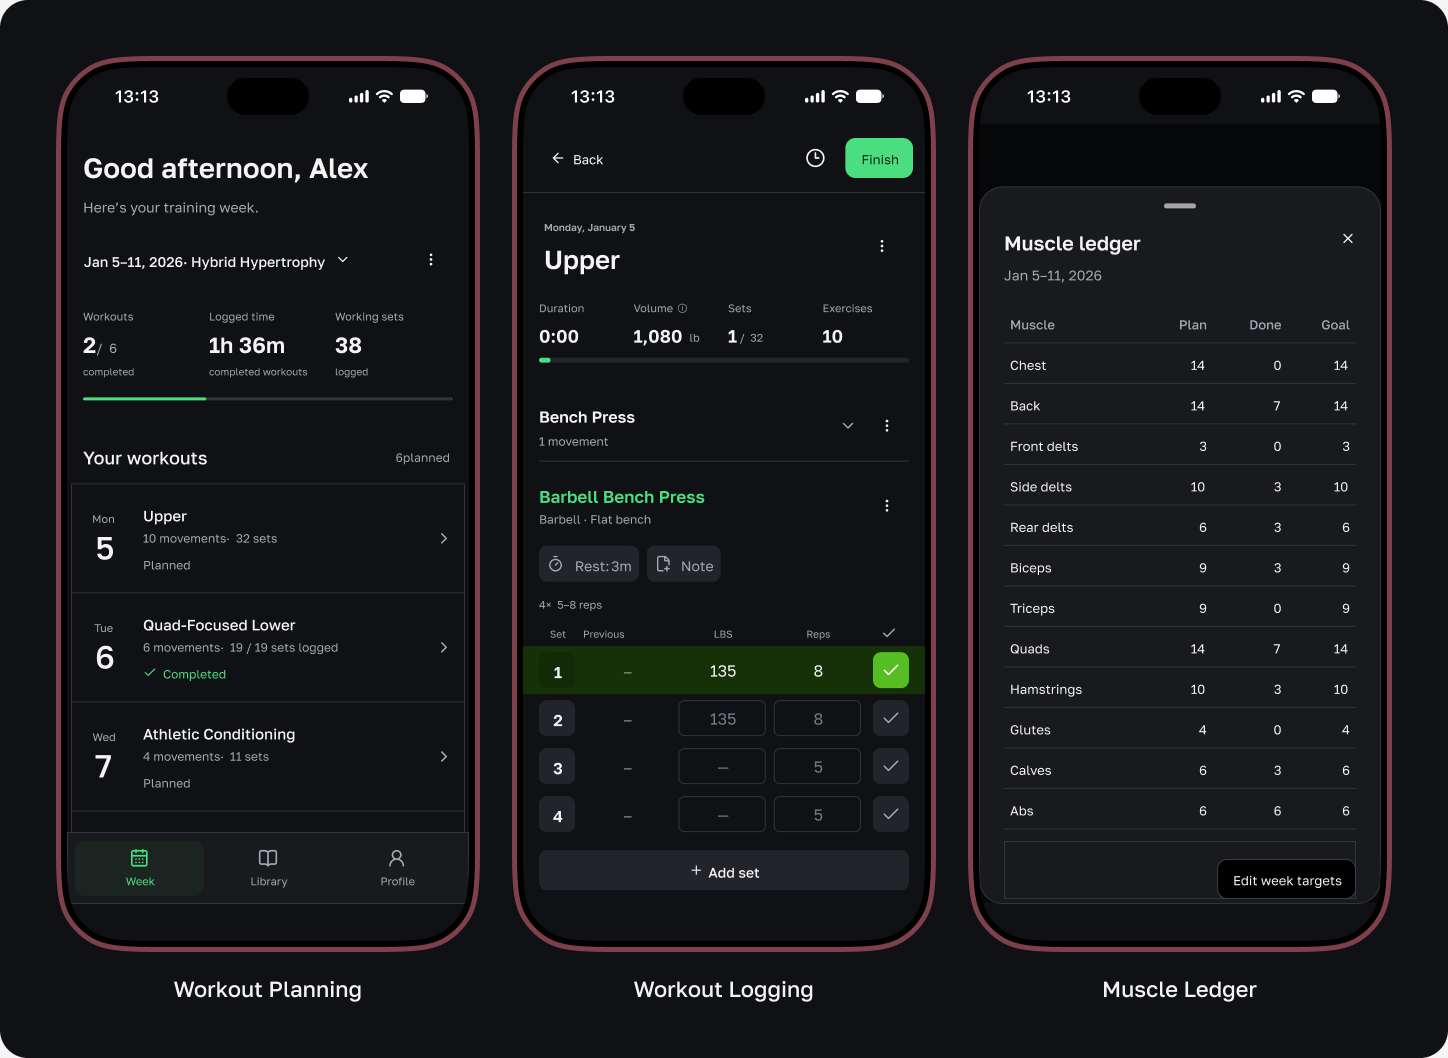
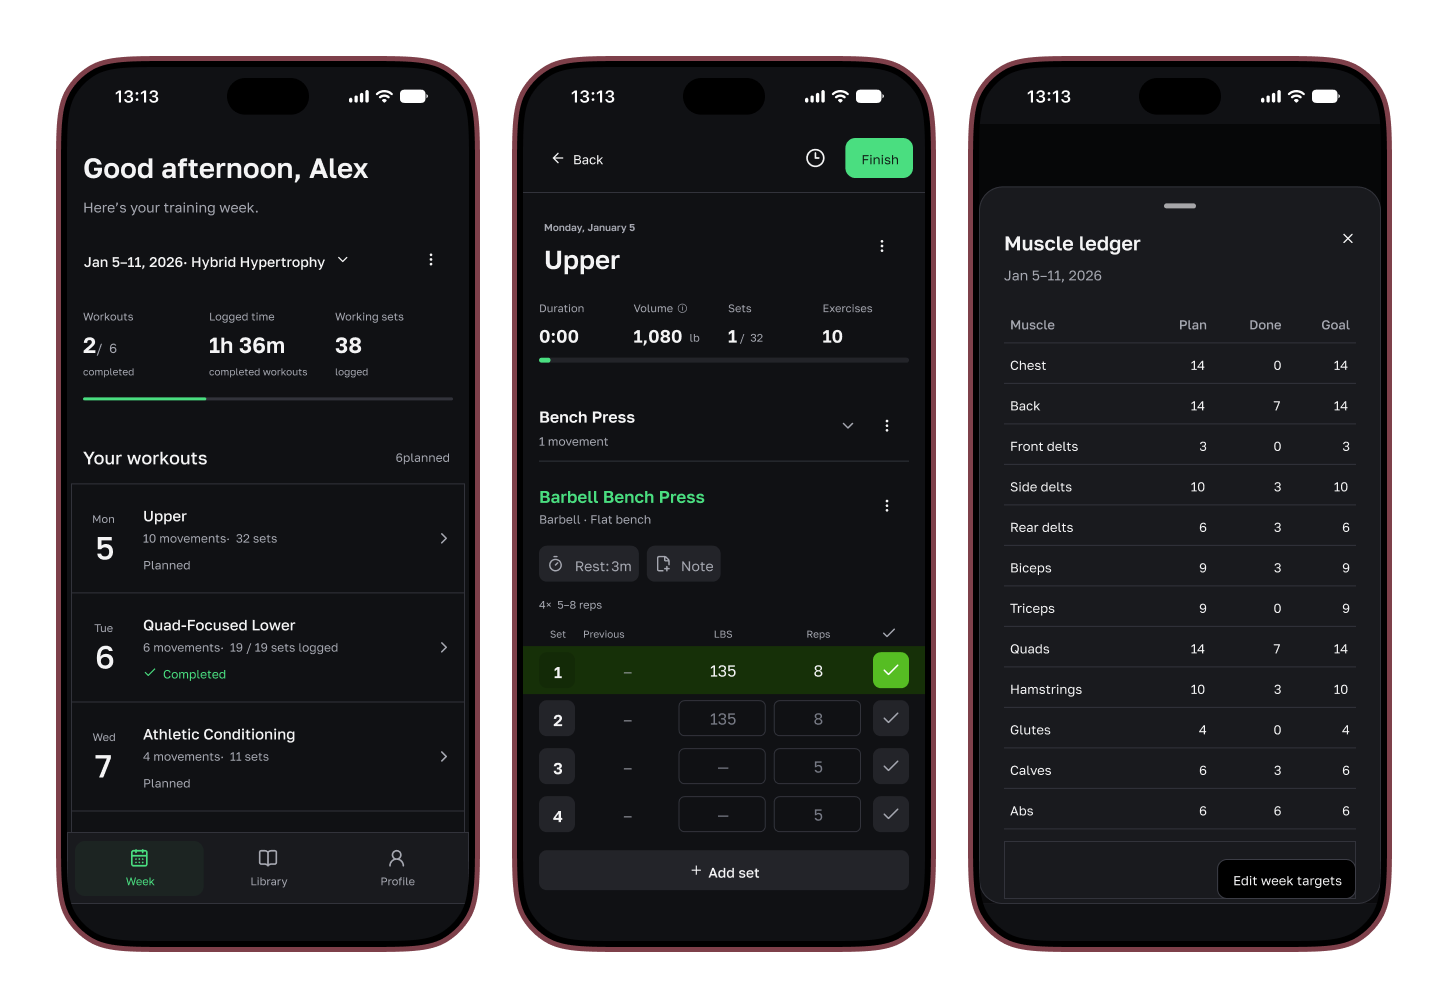
fix: clarify README visuals and configure notification tests in CI

diff --git a/server/timer-alerts.integration.test.ts b/server/timer-alerts.integration.test.ts
@@ -43,6 +43,11 @@ afterAll(async () => {
     )
 })
 beforeEach(() => {
+  // Delivery is mocked in this suite. Keep configuration independent of a
+  // developer's optional local push credentials.
+  vi.stubEnv("VAPID_PUBLIC_KEY", "test")
+  vi.stubEnv("VAPID_PRIVATE_KEY", "test")
+  vi.stubEnv("VAPID_SUBJECT", "mailto:test@example.invalid")
   vi.mocked(sendPush).mockClear()
 })
 describe.skipIf(!enabled)("rest alerts on PostgreSQL", () => {

diff --git a/docs/technical-design.md b/docs/technical-design.md
@@ -2,14 +2,27 @@
 
 ## Architecture
 
-```text
-React Web Client         Future Mobile Client / Agent
-        │                              │
-        └──────── Versioned HTTP API ──┘
-                         │
-                Domain And Access Rules
-                         │
-               PostgreSQL + Drizzle
+```mermaid
+flowchart TB
+    web["Web App<br/>React + Next.js"]
+    tools["Your Agents and Scripts"]
+    mobile["Future Mobile Client"]
+    api["Versioned HTTP API<br/>/api/v1"]
+    domain["Domain and Access Rules<br/>server/"]
+    db[("PostgreSQL<br/>Drizzle ORM")]
+
+    web --> api
+    tools --> api
+    mobile -.-> api
+    api --> domain
+    domain --> db
+
+    classDef client fill:#eaf7ee,stroke:#36844a,color:#163b20
+    classDef service fill:#edf3ff,stroke:#5275ad,color:#1c355c
+    classDef storage fill:#f4effa,stroke:#8063a0,color:#40275c
+    class web,tools,mobile client
+    class api,domain service
+    class db storage
 ```
 
 The first deployment uses Next.js for the web shell and route handlers. Domain modules live under `server/`, independently of React. The client consumes the generated API contract through `lib/api-client.ts`. Additional clients can use the same HTTP API without importing UI code.

diff --git a/docs/images/README.md b/docs/images/README.md
@@ -2,6 +2,6 @@
 
 These images show the current Training Log interface with synthetic workout data. The editable compositions are in [Figma](https://www.figma.com/design/kN2PWdpIGwS7ObCjENH3Ek?node-id=3906-374).
 
-Device frames are adapted from the [iPhone 18 Pro Flat Mockups Community template](https://www.figma.com/community/file/1155100064547881598/iphone-18-pro-flat-mockups). The original template remains in the Figma file. App interface layers and captions are editable. The screen content uses Golos Text, matching the web client.
+Device frames are adapted from the [iPhone 18 Pro Flat Mockups Community template](https://www.figma.com/community/file/1155100064547881598/iphone-18-pro-flat-mockups). The original template remains in the Figma file. App interface layers are editable. Exports use transparent backgrounds, with feature names supplied in the README text. The screen content uses Golos Text, matching the web client.
 
 The hero shows workout planning, logging, and the muscle ledger. Individual exports add a larger view of each screen and the rest timer. All examples are illustrative, with no personal training records or authentication details.

diff --git a/README.md b/README.md
@@ -32,9 +32,6 @@ Workout summaries also show duration, completed sets, and recorded weight volume
 
 Keep the workout clock and rest countdown close to your set log. Choose presets or a custom duration, enable automatic rest for individual movements, and use countdown sounds or optional device notifications. Notification delivery requires connectivity and supported device settings.
 
-<details>
-<summary>Explore the App</summary>
-
 | Workout Planning | Workout Logging |
 |---|---|
 | ![Training week with planned and completed workouts](docs/images/week.png) | ![Workout logging with individual set entries](docs/images/logging.png) |
@@ -44,8 +41,6 @@ Keep the workout clock and rest countdown close to your set log. Choose presets 
 | ![Muscle ledger comparing planned sets, completed sets, and goals](docs/images/ledger.png) | ![Rest timer with a radial dial and duration presets](docs/images/timer.png) |
 
 [Editable Figma mockups and image credits](docs/images/README.md)
-
-</details>
 
 ## API and AI Access
 
